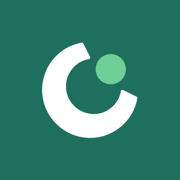
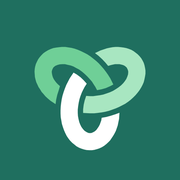
feat: troca o símbolo da marca pelo nó de três laços
O símbolo passa a ser um nó de um fio só com três laços (doador, ONG e
família), cada laço em um tom de verde. As folgas dos cruzamentos são
recortadas no próprio desenho, então ele funciona sobre qualquer fundo.

O partial _simbolo.html troca o parâmetro "ponto" por "tom": use
tom="escuro" sobre o fundo verde (sidebar, login e rodapé da home).
Favicon (svg e ico) e apple-touch-icon foram regerados com o novo símbolo.

Changed region(s): [[0.1667, 0.2222, 0.8333, 0.8611]]

diff --git a/templates/partials/_simbolo.html b/templates/partials/_simbolo.html
@@ -1,11 +1,13 @@
 {% comment %}
-Símbolo da marca: um arco que acolhe um ponto (a ONG acolhendo quem recebe a doação).
-Uso: {% include "partials/_simbolo.html" with classe="size-7 text-white" ponto="text-accent" %}
-- classe: tamanho e cor do arco (o arco usa a cor do texto).
-- ponto: cor do ponto, também por classe de texto.
+Símbolo da marca: um nó de três laços feito de um fio só (doador, ONG e família ligados pelo mesmo fio).
+Uso: {% include "partials/_simbolo.html" with classe="size-7" tom="escuro" %}
+- classe: tamanho do símbolo.
+- tom: use "escuro" sobre fundo verde (sidebar, rodapé, login); omita sobre fundo claro.
+As folgas dos cruzamentos são recortadas no próprio desenho, então o símbolo funciona sobre qualquer fundo.
 Fica ao lado do nome "conecta", que já é lido; por isso o SVG é decorativo (aria-hidden).
 {% endcomment %}
 <svg class="shrink-0 {{ classe }}" viewBox="0 0 64 64" aria-hidden="true" focusable="false">
-    <path d="M28 9.3A23 23 0 1 0 54.7 36L48.1 32.7A14.5 14.5 0 1 1 31.3 15.9Z" fill="currentColor" stroke="currentColor" stroke-width="1.6" stroke-linejoin="round"/>
-    <circle class="{{ ponto }}" cx="42.3" cy="21.7" r="7.5" fill="currentColor"/>
+    <path class="{% if tom == 'escuro' %}text-white{% else %}text-primary{% endif %}" fill="currentColor" d="M23.4 22.9 21.4 25.9 20.4 27.8 19.6 29.4 18.8 31.4 18.2 33.1 17.6 35.1 17.2 36.9 16.9 38.9 16.7 40.6 16.6 42.6 16.6 44.3 16.7 46.3 17 47.9 17.3 49.7 17.8 51.3 18.4 53.0 19 54.4 19.8 56.0 20.6 57.2 21.5 58.4 22.7 59.6 23.8 60.5 24.9 61.4 26.3 62.2 27.6 62.7 28.9 63.1 30.2 63.4 31.6 63.5 33 63.5 34.3 63.3 35.8 62.9 36.9 62.5 38.2 61.9 39.4 61.2 40.5 60.3 41.5 59.4 42.5 58.4 43.3 57.2 44.1 56.0 44.8 54.8 45.5 53.4 46 52.0 46.5 50.5 46.8 49.0 47.2 47.1 47.4 43.9 45.3 44.7 42.7 45.5 40.5 46.1 38.1 46.5 37.9 47.9 37.5 49.0 37.1 50.1 36.5 51.2 35.9 52.1 35.3 52.9 34.5 53.6 33.8 54.0 33.2 54.3 32.6 54.5 31.4 54.5 30.8 54.3 30.2 54.0 29.1 53.3 28.3 52.4 27.5 51.3 26.9 50.1 26.4 48.8 26 47.2 25.7 45.6 25.6 44.0 25.6 42.3 25.8 40.5 26.1 38.6 26.5 36.8 27 35.2 27.7 33.4 28.4 31.9 29.2 30.4 30.3 28.7 28.6 26.8 27 25.3 25 23.8 23.7 23.1Z"/>
+    <path class="{% if tom == 'escuro' %}text-accent{% else %}text-secondary{% endif %}" fill="currentColor" d="M44.2 29.1 42.6 25.9 41.4 24.0 40.4 22.6 39.1 20.9 37.9 19.5 36.5 18.0 35.2 16.8 33.6 15.5 32.2 14.4 30.5 13.3 29 12.5 27.3 11.7 25.7 11.0 24 10.4 22.4 10.0 20.6 9.7 19.1 9.5 17.3 9.5 15.9 9.6 14.4 9.8 12.8 10.1 11.4 10.6 10.1 11.2 8.7 12.0 7.6 12.8 6.6 13.8 5.7 14.8 4.9 15.9 4.3 17.1 3.7 18.4 3.3 19.8 3.1 21.0 3 22.4 3.1 23.8 3.2 25.2 3.5 26.5 3.9 27.9 4.5 29.2 5.1 30.5 5.9 31.7 6.7 33.0 7.7 34.1 8.7 35.3 9.9 36.4 11.3 37.6 14 39.4 14.3 37.1 14.9 34.5 15.6 32.3 16.3 30.0 15.3 29.1 14.5 28.3 13.8 27.4 13.1 26.4 12.6 25.4 12.3 24.4 12.1 23.4 12 22.5 12.1 21.9 12.3 21.3 12.8 20.3 13.3 19.8 13.8 19.4 15 18.9 16.2 18.6 17.5 18.5 18.9 18.5 20.2 18.8 21.9 19.2 23.3 19.7 24.8 20.5 26.3 21.3 27.8 22.4 29.2 23.6 30.6 24.9 31.7 26.1 33 27.6 33.9 29.0 34.8 30.4 35.7 32.1 38.2 31.6 40.3 31.0 42.6 30.0 43.9 29.3Z"/>
+    <path class="{% if tom == 'escuro' %}text-[#a8e6c1]{% else %}text-accent{% endif %}" fill="currentColor" d="M28.4 44.0 32 44.2 34.2 44.2 36 44.0 38.1 43.7 39.9 43.4 41.9 42.9 43.6 42.3 45.5 41.6 47.1 40.9 48.9 40.0 50.4 39.2 52 38.1 53.3 37.1 54.7 35.8 55.8 34.7 57 33.3 57.9 32.1 58.8 30.6 59.5 29.3 60.1 27.9 60.5 26.3 60.8 24.8 61 23.5 61 21.8 60.8 20.5 60.5 19.1 60.1 17.8 59.5 16.6 58.8 15.4 57.9 14.3 56.9 13.3 55.9 12.5 54.8 11.7 53.6 11.0 52.3 10.5 51 10.1 49.6 9.8 48.2 9.6 46.7 9.5 45.3 9.5 43.8 9.6 42.3 9.9 40.8 10.2 39.3 10.7 37.5 11.3 34.6 12.7 36.4 14.1 38.4 15.9 40 17.6 41.5 19.4 42.8 19.0 44 18.7 45.1 18.5 46.3 18.5 47.4 18.5 48.4 18.7 49.4 19.0 50.2 19.4 50.7 19.8 51.2 20.3 51.7 21.3 51.9 21.9 52 22.5 51.9 23.8 51.5 25.0 51 26.2 50.2 27.4 49.4 28.4 48.2 29.6 46.9 30.6 45.6 31.5 44.1 32.4 42.4 33.2 40.7 33.8 38.9 34.4 37.3 34.7 35.3 35.0 33.7 35.2 32 35.2 30 35.1 29.2 37.5 28.7 39.7 28.4 42.1 28.4 43.7Z"/>
 </svg>

diff --git a/templates/core/home.html b/templates/core/home.html
@@ -239,7 +239,7 @@
 <footer class="bg-primary px-6">
     <div class="mx-auto flex max-w-6xl flex-col gap-2 border-t border-white/10 py-6 text-xs text-conecta-on-dark-muted sm:flex-row sm:items-center sm:justify-between">
         <span class="flex items-center gap-2 text-base font-bold text-white">
-            {% include "partials/_simbolo.html" with classe="size-5" ponto="text-accent" %}
+            {% include "partials/_simbolo.html" with classe="size-5" tom="escuro" %}
             conecta
         </span>
         <span>Laboratório de Engenharia de Software · ADS · Fatec Ribeirão Preto · 2026/2</span>

diff --git a/templates/base.html b/templates/base.html
@@ -13,7 +13,7 @@
     <header class="site-header sticky top-0 z-40">
         <div class="mx-auto flex h-16 max-w-6xl items-center gap-10 px-6">
             <a class="flex items-center gap-2 text-[22px] font-bold text-primary" href="{% url 'home' %}">
-                {% include "partials/_simbolo.html" with classe="size-7" ponto="text-secondary" %}
+                {% include "partials/_simbolo.html" with classe="size-7" %}
                 conecta
             </a>
             {% block nav %}{% endblock %}

diff --git a/templates/partials/_sidebar.html b/templates/partials/_sidebar.html
@@ -2,7 +2,7 @@
 <aside id="sidebar" class="flex min-h-full w-[242px] flex-col justify-between bg-primary px-4 pb-7 pt-8">
     <div class="flex flex-col gap-6">
         <p class="flex items-center gap-2 text-[22px] font-bold text-white">
-            {% include "partials/_simbolo.html" with classe="size-7" ponto="text-accent" %}
+            {% include "partials/_simbolo.html" with classe="size-7" tom="escuro" %}
             conecta
         </p>
 

diff --git a/templates/core/login.html b/templates/core/login.html
@@ -4,7 +4,7 @@
 
 {% block brand %}
 <p class="flex items-center gap-1.5 text-sm font-bold">
-    {% include "partials/_simbolo.html" with classe="size-5" ponto="text-accent" %}
+    {% include "partials/_simbolo.html" with classe="size-5" tom="escuro" %}
     conecta
 </p>
 <div class="text-3xl font-bold leading-tight sm:text-[34px]">
